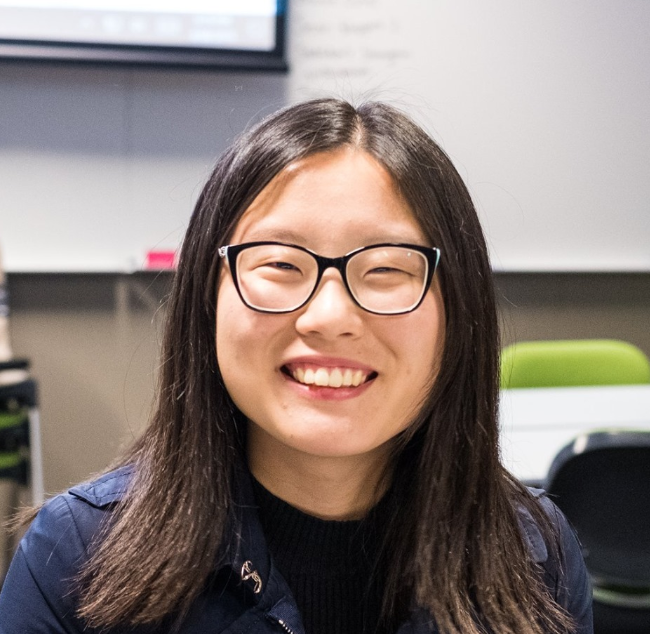
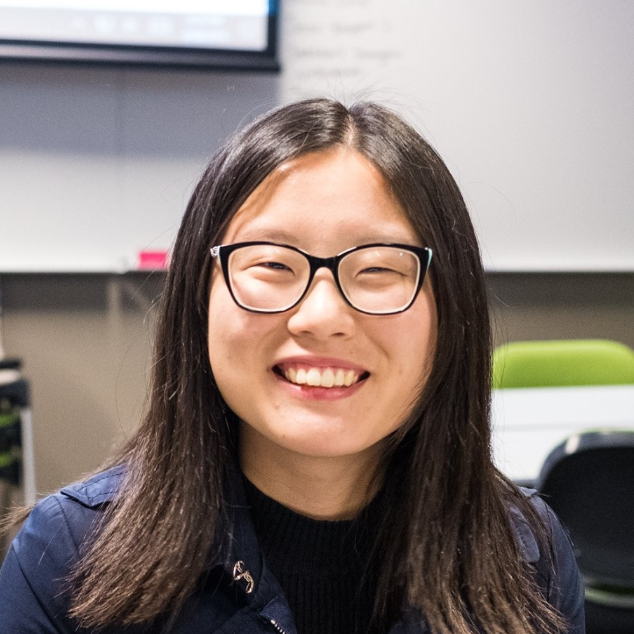
Cropping and adding photos

diff --git a/docs/about/masteruwuers/index.html b/docs/about/masteruwuers/index.html
@@ -246,7 +246,7 @@
         </div>
     </div>
     <div class="horizontal-container">
-        <div class="vertical-container"><img class="subcom-pic" src="https://mathsoc.unsw.edu.au/assets/img/logo.png" />
+        <div class="vertical-container"><img class="subcom-pic" src="https://mathsoc.unsw.edu.au/assets/img/TeamPhotos/JasonZ.png" />
         </div>
         <div class="vertical-container">
         <h5>Jason Zhao - Arc Delegate</h5>
@@ -306,7 +306,7 @@
         </div>
     </div>
     <div class="horizontal-container">
-        <div class="vertical-container"><img class="subcom-pic" src="https://mathsoc.unsw.edu.au/assets/img/logo.png" />
+        <div class="vertical-container"><img class="subcom-pic" src="https://mathsoc.unsw.edu.au/assets/img/TeamPhotos/PhiltonZ.png" />
         </div>
         <div class="vertical-container">
         <h5>Philton Zhu - Events (Social) Director</h5>
@@ -338,7 +338,7 @@
         </div>
 	</div>
     <div class="horizontal-container">
-        <div class="vertical-container"><img class="subcom-pic" src="https://mathsoc.unsw.edu.au/assets/img/logo.png" />
+        <div class="vertical-container"><img class="subcom-pic" src="https://mathsoc.unsw.edu.au/assets/img/TeamPhotos/ChrisW.png" />
         </div>
         <div class="vertical-container">
         <h5>Chris Wu - Sponsorship Director</h5>
@@ -346,7 +346,7 @@
         </div>
 	</div>
     <div class="horizontal-container">
-        <div class="vertical-container"><img class="subcom-pic" src="https://mathsoc.unsw.edu.au/assets/img/logo.png" />
+        <div class="vertical-container"><img class="subcom-pic" src="https://mathsoc.unsw.edu.au/assets/img/TeamPhotos/NancyY.png" />
         </div>
         <div class="vertical-container">
         <h5>Nancy Yu - Sponsorship Director</h5>

diff --git a/_pages/execs.md b/_pages/execs.md
@@ -42,7 +42,7 @@ title_text: The 2020 Executive and Director Team of the UNSW Mathematics Society
         </div>
     </div>
     <div class="horizontal-container">
-        <div class="vertical-container"><img class="subcom-pic" src="{{ site.images }}/logo.png">
+        <div class="vertical-container"><img class="subcom-pic" src="{{ site.images }}/TeamPhotos/JasonZ.png">
         </div>
         <div class="vertical-container">
         <h5>Jason Zhao - Arc Delegate</h5>
@@ -102,7 +102,7 @@ title_text: The 2020 Executive and Director Team of the UNSW Mathematics Society
         </div>
     </div>
     <div class="horizontal-container">
-        <div class="vertical-container"><img class="subcom-pic" src="{{ site.images }}/logo.png">
+        <div class="vertical-container"><img class="subcom-pic" src="{{ site.images }}/TeamPhotos/PhiltonZ.png">
         </div>
         <div class="vertical-container">
         <h5>Philton Zhu - Events (Social) Director</h5>
@@ -134,7 +134,7 @@ title_text: The 2020 Executive and Director Team of the UNSW Mathematics Society
         </div>
 	</div>
     <div class="horizontal-container">
-        <div class="vertical-container"><img class="subcom-pic" src="{{ site.images }}/logo.png">
+        <div class="vertical-container"><img class="subcom-pic" src="{{ site.images }}/TeamPhotos/ChrisW.png">
         </div>
         <div class="vertical-container">
         <h5>Chris Wu - Sponsorship Director</h5>
@@ -142,7 +142,7 @@ title_text: The 2020 Executive and Director Team of the UNSW Mathematics Society
         </div>
 	</div>
     <div class="horizontal-container">
-        <div class="vertical-container"><img class="subcom-pic" src="{{ site.images }}/logo.png">
+        <div class="vertical-container"><img class="subcom-pic" src="{{ site.images }}/TeamPhotos/NancyY.png">
         </div>
         <div class="vertical-container">
         <h5>Nancy Yu - Sponsorship Director</h5>
